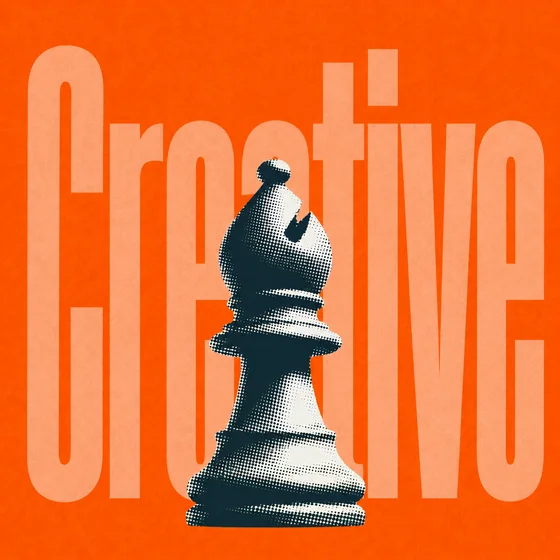
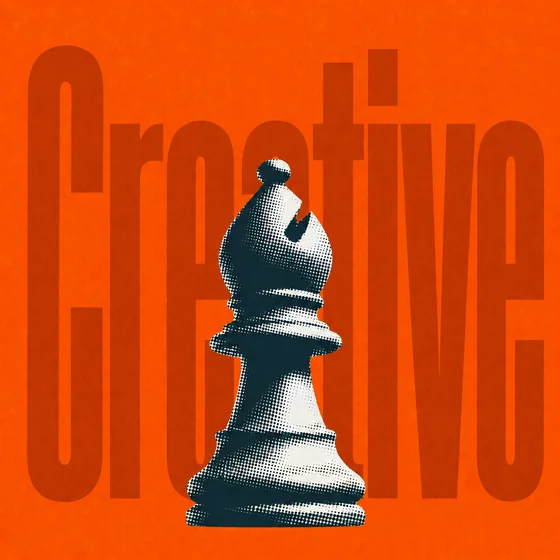
feat(members): tilt the chess piece on card hover
New art from the source folder, plus a second frame per role — the same piece
tilted — crossfaded on hover.

Both frames sit in the DOM and swap with a CSS opacity transition rather than
state, so MemberGrid stays a server component and the second frame is already
decoded before anyone points at a card. motion-reduce drops the fade and keeps
the swap instant.

Reassigns the making-things trades to creative: magician, catalog design,
photographer, videographer. UX designer stays a builder by request.

diff --git a/components/members/MemberGrid.tsx b/components/members/MemberGrid.tsx
@@ -39,27 +39,44 @@ export function MemberGrid({ members }: { members: DirectoryMember[] }) {
       {members.map((member) => {
         const role = isRole(member.role) ? member.role : null;
         const art = role ? roleArt(role) : null;
+        const artHover = role ? roleArt(role, 'hover') : null;
         const src = member.photo
           ? urlFor(member.photo).width(560).height(560).fit('crop').auto('format').url()
           : null;
 
         return (
-          <li key={member._id}>
-            <div className="aspect-square overflow-hidden rounded-card bg-raised">
-              {art ? (
-                <img
-                  src={art.src}
-                  srcSet={art.srcSet}
-                  // The piece is decoration for a role already written below,
-                  // so naming the role here would have a screen reader say it
-                  // twice.
-                  alt=""
-                  width={560}
-                  height={560}
-                  loading="lazy"
-                  decoding="async"
-                  className="h-full w-full object-cover"
-                />
+          <li key={member._id} className="group/card">
+            <div className="relative aspect-square overflow-hidden rounded-card bg-raised">
+              {art && artHover ? (
+                <>
+                  {/*
+                    Both frames are stacked and crossfaded on hover. The piece
+                    is decoration for a role already written below, so naming
+                    the role in alt text would have a screen reader say it
+                    twice — and the hover frame is the same piece again.
+                  */}
+                  <img
+                    src={art.src}
+                    srcSet={art.srcSet}
+                    alt=""
+                    width={560}
+                    height={560}
+                    loading="lazy"
+                    decoding="async"
+                    className="h-full w-full object-cover transition-opacity duration-200 group-hover/card:opacity-0 motion-reduce:transition-none"
+                  />
+                  <img
+                    src={artHover.src}
+                    srcSet={artHover.srcSet}
+                    alt=""
+                    aria-hidden
+                    width={560}
+                    height={560}
+                    loading="lazy"
+                    decoding="async"
+                    className="absolute inset-0 h-full w-full object-cover opacity-0 transition-opacity duration-200 group-hover/card:opacity-100 motion-reduce:transition-none"
+                  />
+                </>
               ) : src ? (
                 <img
                   src={src}

diff --git a/lib/content/roles.ts b/lib/content/roles.ts
@@ -29,10 +29,17 @@ export function roleLabel(role: Role): string {
   return ROLES.find((r) => r.value === role)?.label ?? role;
 }
 
-/** 1x and 2x sources for a role's card artwork. */
-export function roleArt(role: Role) {
+/**
+ * 1x and 2x sources for a role's card artwork.
+ *
+ * `hover` is the same piece tilted. Both frames are in the DOM and crossfaded
+ * with CSS so the grid stays a server component and the second frame is
+ * already decoded before anyone points at it.
+ */
+export function roleArt(role: Role, variant: 'rest' | 'hover' = 'rest') {
+  const name = variant === 'hover' ? `${role}-hover` : role;
   return {
-    src: `/img/role-${role}-560.webp`,
-    srcSet: `/img/role-${role}-560.webp 1x, /img/role-${role}-1120.webp 2x`,
+    src: `/img/role-${name}-560.webp`,
+    srcSet: `/img/role-${name}-560.webp 1x, /img/role-${name}-1120.webp 2x`,
   };
 }
